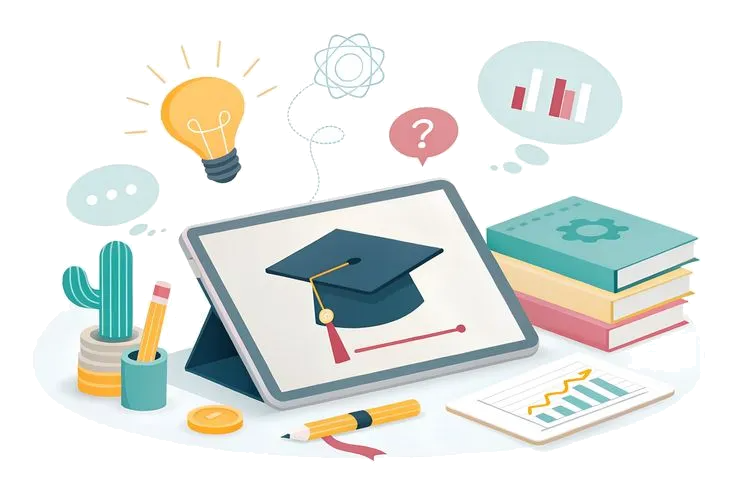
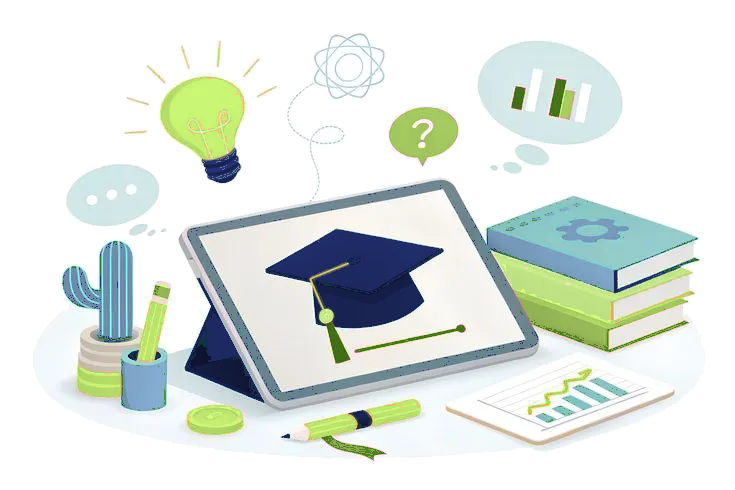
style: scale down tablet illustration and harmonize colors to exact Home palette

diff --git a/src/components/learner/CoursesView.tsx b/src/components/learner/CoursesView.tsx
@@ -171,7 +171,8 @@ export function CoursesView({
       {/* ========================================================================= */}
       {/* 1. TOP HERO BANNER: Styled identical to Home page banner                  */}
       {/* ========================================================================= */}
-      <div className="relative rounded-2xl border border-[#87AECE]/35 bg-gradient-to-br from-white via-[#fcfdfe] to-[#f2f7fa] p-6 sm:p-8 lg:py-5 lg:px-10 shadow-[0_16px_50px_-20px_rgba(29,42,98,0.08)] overflow-hidden flex items-center justify-between min-h-[180px] sm:min-h-[210px] lg:min-h-[230px]">
+      <div className="relative rounded-2xl border border-[#87AECE]/35 bg-gradient-to-br from-white via-[#fcfdfe] to-[#f2f7fa] p-5 sm:p-7 lg:py-5 lg:px-9 shadow-[0_16px_50px_-20px_rgba(29,42,98,0.08)] overflow-hidden flex items-center justify-between min-h-[150px] sm:min-h-[175px] lg:min-h-[190px]">
+        {/* Subtle Architectural Dot Matrix Grid */}
         <div 
           className="absolute inset-0 bg-[radial-gradient(#87AECE_1px,transparent_1px)] [background-size:24px_24px] opacity-30 pointer-events-none -z-0" 
         />
@@ -226,13 +227,13 @@ export function CoursesView({
           </p>
         </div>
 
-        {/* Right: Attached Learning Tablet Illustration with Floating Motion */}
-        <div className="hidden sm:flex items-center justify-center relative z-10 shrink-0 pr-0 lg:pr-4">
+        {/* Right: Attached Learning Tablet Illustration in RFC Palette with Floating Motion (Scaled down) */}
+        <div className="hidden sm:flex items-center justify-center relative z-10 shrink-0 pr-0 lg:pr-3">
           <img
             src="/courses-hero-tablet.png"
             alt="Course Library Learning Exploration"
             loading="eager"
-            className="max-h-[220px] sm:max-h-[250px] lg:max-h-[275px] xl:max-h-[290px] w-auto object-contain select-none animate-hero-float drop-shadow-md hover:scale-105 transition-transform duration-500 ease-out cursor-pointer"
+            className="max-h-[165px] sm:max-h-[185px] lg:max-h-[205px] xl:max-h-[215px] w-auto object-contain select-none animate-hero-float drop-shadow-md hover:scale-105 transition-transform duration-500 ease-out cursor-pointer"
           />
         </div>
       </div>
